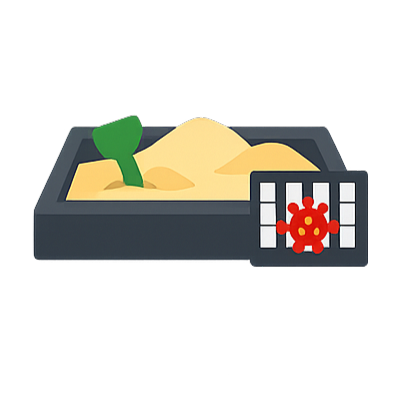
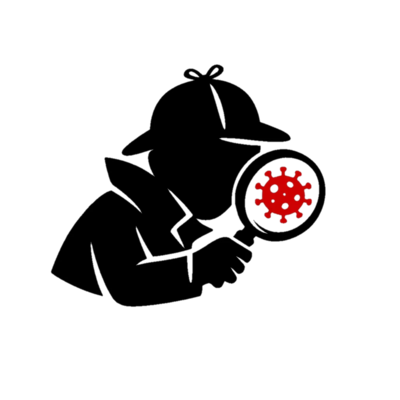
сделал новый модуль watcher.py который ведет журнал аудита в нужных для пользователя директориях с помощью библиотеки watchdog

diff --git a/source/watcher.py b/source/watcher.py
@@ -1,0 +1,316 @@
+import os
+import time
+import queue
+from tkinter import *
+from tkinter import font as tkfont
+from tkinter import filedialog, messagebox
+import psutil
+from watchdog.observers import Observer
+from watchdog.events import FileSystemEventHandler
+from datetime import datetime
+BG_COLOR = "#1a1a1a"
+BG_SECONDARY = "#2a2a2a"
+BUTTON_COLOR = "#2a2a2a"
+BUTTON_ACTIVE_COLOR = "#3a3a3a"
+TEXT_COLOR = "#e0e0e0"
+TITLE_COLOR = "#3a6ea5"
+WARNING_COLOR = "#ff4444"
+SUCCESS_COLOR = "#44ff44"
+BUTTON_TEXT_COLOR = "#2a4a7a"
+FONT_FAMILY = "Segoe UI"
+DEFAULT_FOLDERS = [
+    os.path.expanduser("~\\Documents"),
+    os.path.expanduser("~\\Desktop"),
+    os.path.expanduser("~\\Downloads"),
+]
+EXCLUDED_PATTERNS = [
+    "*.tmp", "*.temp", "*.log", "*.cache", "*.crdownload",
+    "~*", "Thumbs.db", "desktop.ini"
+]
+EXCLUDED_DIRS = [
+    "cache", "temp", "tmp", "logs", ".git", "__pycache__"
+]
+class FileChangeHandler(FileSystemEventHandler):
+    def __init__(self, log_queue):
+        super().__init__()
+        self.log_queue = log_queue
+    def should_ignore(self, path):
+        path_lower = path.lower()
+        for pattern in EXCLUDED_PATTERNS:
+            if pattern.startswith('*'):
+                if path_lower.endswith(pattern[1:]):
+                    return True
+            elif pattern.startswith('~'):
+                if os.path.basename(path).startswith('~'):
+                    return True
+        for dir_name in EXCLUDED_DIRS:
+            if f"\\{dir_name}\\" in f"\\{path_lower}\\" or path_lower.startswith(dir_name):
+                return True
+        return False
+    def get_file_size(self, path):
+        try:
+            if os.path.exists(path):
+                size = os.path.getsize(path)
+                if size < 1024:
+                    return f"{size} B"
+                elif size < 1024 * 1024:
+                    return f"{size / 1024:.2f} KB"
+                else:
+                    return f"{size / (1024 * 1024):.2f} MB"
+        except:
+            pass
+        return "Неизвестно"
+    def get_process_name(self, path):
+        try:
+            time.sleep(0.05)
+            for proc in psutil.process_iter(['pid', 'name']):
+                try:
+                    for file in proc.open_files():
+                        if file.path == path:
+                            return proc.info['name']
+                except (psutil.NoSuchProcess, psutil.AccessDenied):
+                    continue
+        except:
+            pass
+        return "неизвестно"
+    def process(self, event):
+        if event.is_directory or self.should_ignore(event.src_path):
+            return
+        timestamp = datetime.now().strftime('%H:%M:%S')
+        filename = os.path.basename(event.src_path)
+        file_size = self.get_file_size(event.src_path)
+        process_name = ""
+        if event.event_type == 'created':
+            action = "СОЗДАН"
+            color = "#44ff44"
+            process_name = self.get_process_name(event.src_path)
+        elif event.event_type == 'modified':
+            action = "ИЗМЕНЕН"
+            color = "#ffaa00"
+            process_name = self.get_process_name(event.src_path)
+        elif event.event_type == 'deleted':
+            action = "УДАЛЕН"
+            color = "#ff4444"
+            process_name = "N/A"
+        elif event.event_type == 'moved':
+            action = "ПЕРЕМЕЩЕН"
+            color = "#aa66ff"
+            process_name = self.get_process_name(event.dest_path) if hasattr(event, 'dest_path') else "N/A"
+        else:
+            return
+        log_entry = f"[{timestamp}] {action}: {filename} ({file_size}) | Процесс: {process_name}"
+        self.log_queue.put((log_entry, color))
+    def on_created(self, event):
+        self.process(event)
+    def on_modified(self, event):
+        self.process(event)
+    def on_deleted(self, event):
+        self.process(event)
+    def on_moved(self, event):
+        self.process(event)
+class FileMonitorFrame(Frame):
+    def __init__(self, parent, on_back):
+        super().__init__(parent, bg=BG_COLOR)
+        self.on_back = on_back
+        self.observer = None
+        self.is_monitoring = False
+        self.event_queue = queue.Queue()
+        self.watched_folders = []
+        self.setup_fonts()
+        self.create_interface()
+        self.add_default_folders()
+    def setup_fonts(self):
+        try:
+            self.title_font = tkfont.Font(family=FONT_FAMILY, size=72, weight="bold")
+            self.button_font = tkfont.Font(family=FONT_FAMILY, size=16, weight="bold")
+            self.status_font = tkfont.Font(family=FONT_FAMILY, size=14, weight="bold")
+            self.list_font = tkfont.Font(family=FONT_FAMILY, size=11)
+        except:
+            self.title_font = tkfont.Font(size=72, weight="bold")
+            self.button_font = tkfont.Font(size=16, weight="bold")
+            self.status_font = tkfont.Font(size=14, weight="bold")
+            self.list_font = tkfont.Font(size=11)
+    def create_interface(self):
+        main_frame = Frame(self, bg=BG_COLOR)
+        main_frame.pack(fill=BOTH, expand=True, padx=80, pady=50)
+        title = Label(main_frame, text="SATELLITE", font=self.title_font, fg=TITLE_COLOR, bg=BG_COLOR)
+        title.pack(pady=(40, 20))
+        status_label = Label(main_frame, text="МОНИТОРИНГ ФАЙЛОВОЙ СИСТЕМЫ", font=self.status_font, fg=SUCCESS_COLOR,
+                             bg=BG_COLOR)
+        status_label.pack(pady=(0, 20))
+        control_frame = Frame(main_frame, bg=BG_COLOR)
+        control_frame.pack(fill=X, pady=(0, 10))
+        listbox_frame = Frame(control_frame, bg=BG_SECONDARY)
+        listbox_frame.pack(side=LEFT, fill=BOTH, expand=True, padx=(0, 10))
+        scrollbar_list = Scrollbar(listbox_frame)
+        scrollbar_list.pack(side=RIGHT, fill=Y)
+        self.folder_listbox = Listbox(listbox_frame, font=self.list_font, bg=BG_SECONDARY, fg=TEXT_COLOR,
+                                      selectbackground=TITLE_COLOR, selectforeground=TEXT_COLOR,
+                                      yscrollcommand=scrollbar_list.set, relief=FLAT, bd=0, height=5)
+        self.folder_listbox.pack(side=LEFT, fill=BOTH, expand=True)
+        scrollbar_list.config(command=self.folder_listbox.yview)
+        btn_panel = Frame(control_frame, bg=BG_COLOR)
+        btn_panel.pack(side=RIGHT, fill=Y)
+        add_btn = Button(btn_panel, text="ДОБАВИТЬ", font=self.button_font,
+                         bg=BUTTON_COLOR, fg=BUTTON_TEXT_COLOR,
+                         activebackground=BUTTON_ACTIVE_COLOR,
+                         activeforeground=BUTTON_TEXT_COLOR,
+                         relief=FLAT, bd=0, padx=15, pady=5,
+                         command=self.add_folder)
+        add_btn.pack(fill=X, pady=2)
+        remove_btn = Button(btn_panel, text="УДАЛИТЬ", font=self.button_font,
+                            bg=BUTTON_COLOR, fg=BUTTON_TEXT_COLOR,
+                            activebackground=BUTTON_ACTIVE_COLOR,
+                            activeforeground=BUTTON_TEXT_COLOR,
+                            relief=FLAT, bd=0, padx=15, pady=5,
+                            command=self.remove_selected_folder)
+        remove_btn.pack(fill=X, pady=2)
+        default_btn = Button(btn_panel, text="СТАНДАРТНЫЕ", font=self.button_font,
+                             bg=BUTTON_COLOR, fg=BUTTON_TEXT_COLOR,
+                             activebackground=BUTTON_ACTIVE_COLOR,
+                             activeforeground=BUTTON_TEXT_COLOR,
+                             relief=FLAT, bd=0, padx=15, pady=5,
+                             command=self.add_default_folders)
+        default_btn.pack(fill=X, pady=2)
+        apply_btn = Button(btn_panel, text="ПРИМЕНИТЬ", font=self.button_font,
+                           bg=BUTTON_COLOR, fg=BUTTON_TEXT_COLOR,
+                           activebackground=BUTTON_ACTIVE_COLOR,
+                           activeforeground=BUTTON_TEXT_COLOR,
+                           relief=FLAT, bd=0, padx=15, pady=5,
+                           command=self.apply_changes)
+        apply_btn.pack(fill=X, pady=2)
+        back_btn = Button(btn_panel, text="ВЕРНУТЬСЯ", font=self.button_font,
+                          bg=BUTTON_COLOR, fg=BUTTON_TEXT_COLOR,
+                          activebackground=BUTTON_ACTIVE_COLOR,
+                          activeforeground=BUTTON_TEXT_COLOR,
+                          relief=FLAT, bd=0, padx=15, pady=5,
+                          command=self.cleanup_and_back)
+        back_btn.pack(fill=X, pady=2)
+        log_container = Frame(main_frame, bg=BG_COLOR, height=300)
+        log_container.pack(fill=BOTH, pady=(0, 20))
+        log_container.pack_propagate(False)
+        self.log_frame = Frame(log_container, bg=BG_SECONDARY)
+        self.log_frame.pack(fill=BOTH, expand=True)
+        scrollbar_log = Scrollbar(self.log_frame)
+        scrollbar_log.pack(side=RIGHT, fill=Y)
+        self.log_text = Text(self.log_frame, font=("Consolas", 11), bg=BG_SECONDARY, fg=TEXT_COLOR,
+                             yscrollcommand=scrollbar_log.set, wrap=WORD, relief=FLAT, bd=0,
+                             state='disabled')
+        self.log_text.pack(side=LEFT, fill=BOTH, expand=True)
+        scrollbar_log.config(command=self.log_text.yview)
+        btn_frame = Frame(main_frame, bg=BG_COLOR)
+        btn_frame.pack(fill=X, pady=(10, 0))
+        btn_frame.grid_columnconfigure(0, weight=1)
+        btn_frame.grid_columnconfigure(1, weight=1)
+        self.toggle_btn = Button(btn_frame, text="ЗАПУСТИТЬ", font=self.button_font,
+                                 bg=BUTTON_COLOR, fg=BUTTON_TEXT_COLOR,
+                                 activebackground=BUTTON_ACTIVE_COLOR,
+                                 activeforeground=BUTTON_TEXT_COLOR,
+                                 relief=FLAT, bd=0, padx=30, pady=10,
+                                 command=self.toggle_monitoring)
+        self.toggle_btn.grid(row=0, column=0, padx=10, sticky="ew")
+        self.clear_btn = Button(btn_frame, text="ОЧИСТИТЬ ЛОГ", font=self.button_font,
+                                bg=BUTTON_COLOR, fg=BUTTON_TEXT_COLOR,
+                                activebackground=BUTTON_ACTIVE_COLOR,
+                                activeforeground=BUTTON_TEXT_COLOR,
+                                relief=FLAT, bd=0, padx=30, pady=10,
+                                command=self.clear_log)
+        self.clear_btn.grid(row=0, column=1, padx=10, sticky="ew")
+    def add_folder(self):
+        folder = filedialog.askdirectory(title="Выберите папку для мониторинга")
+        if folder:
+            normalized = os.path.normpath(folder)
+            if normalized not in self.watched_folders:
+                self.watched_folders.append(normalized)
+                self.folder_listbox.insert(END, normalized)
+    def remove_selected_folder(self):
+        selection = self.folder_listbox.curselection()
+        if selection:
+            index = selection[0]
+            folder = self.folder_listbox.get(index)
+            self.watched_folders.remove(folder)
+            self.folder_listbox.delete(index)
+    def add_default_folders(self):
+        added = False
+        for folder in DEFAULT_FOLDERS:
+            normalized = os.path.normpath(folder)
+            if os.path.exists(normalized) and normalized not in self.watched_folders:
+                self.watched_folders.append(normalized)
+                self.folder_listbox.insert(END, normalized)
+                added = True
+        if not added:
+            messagebox.showinfo("Информация", "Стандартные папки уже в списке или не существуют.")
+        return added
+    def apply_changes(self):
+        if self.is_monitoring:
+            self.stop_monitoring()
+        self.log_event("Применение изменений и запуск мониторинга...", TITLE_COLOR)
+        self.start_monitoring()
+    def start_monitoring(self):
+        if self.is_monitoring:
+            return
+        if not self.watched_folders:
+            self.log_event("Нет папок для мониторинга. Добавьте хотя бы одну.", WARNING_COLOR)
+            return
+        self.is_monitoring = True
+        self.toggle_btn.config(text="ОСТАНОВИТЬ")
+        self.event_handler = FileChangeHandler(self.event_queue)
+        self.observer = Observer()
+        for folder in self.watched_folders:
+            if os.path.exists(folder):
+                try:
+                    self.observer.schedule(self.event_handler, folder, recursive=True)
+                    self.log_event(f"Начат мониторинг: {folder}", TITLE_COLOR)
+                except Exception as e:
+                    self.log_event(f"Ошибка мониторинга {folder}: {str(e)}", WARNING_COLOR)
+            else:
+                self.log_event(f"Папка не существует: {folder}", WARNING_COLOR)
+        self.observer.start()
+        self.after(100, self.process_queue)
+    def stop_monitoring(self):
+        if self.observer:
+            self.observer.stop()
+            self.observer.join()
+            self.observer = None
+        self.is_monitoring = False
+        self.toggle_btn.config(text="ЗАПУСТИТЬ")
+        self.log_event("Мониторинг остановлен", TITLE_COLOR)
+    def toggle_monitoring(self):
+        if self.is_monitoring:
+            self.stop_monitoring()
+        else:
+            self.start_monitoring()
+    def process_queue(self):
+        try:
+            while True:
+                entry, color = self.event_queue.get_nowait()
+                self._insert_log(entry, color)
+        except queue.Empty:
+            pass
+        finally:
+            if self.is_monitoring:
+                self.after(100, self.process_queue)
+    def _insert_log(self, message, color):
+        self.log_text.config(state='normal')
+        self.log_text.insert(END, message + "\n")
+        last_line = int(self.log_text.index('end-1c').split('.')[0])
+        tag = f"tag_{last_line}"
+        self.log_text.tag_config(tag, foreground=color)
+        self.log_text.tag_add(tag, f"{last_line}.0", f"{last_line}.end")
+        self.log_text.see(END)
+        self.log_text.config(state='disabled')
+    def log_event(self, message, color):
+        self._insert_log(message, color)
+    def clear_log(self):
+        self.log_text.config(state='normal')
+        self.log_text.delete(1.0, END)
+        self.log_text.config(state='disabled')
+    def cleanup_and_back(self):
+        self.stop_monitoring()
+        self.destroy()
+        self.on_back()
+def open_file_monitor(parent, on_back):
+    for widget in parent.winfo_children():
+        widget.destroy()
+    frame = FileMonitorFrame(parent, on_back)
+    frame.pack(fill="both", expand=True)

diff --git a/source/main_win.py b/source/main_win.py
@@ -11,6 +11,7 @@ from PIL import Image, ImageTk
 import secure_delete
 import CombineAntivirus
 import flash_encryption
+import watcher
 BG_COLOR = "#1a1a1a"
 BG_SECONDARY = "#2a2a2a"
 BUTTON_COLOR = "#2a2a2a"
@@ -122,8 +123,8 @@ class SatelliteApp:
         buttons_frame.grid_rowconfigure(1, weight=1, uniform="row")
         btn1 = self.create_button(buttons_frame, "ПРОВЕРИТЬ ФАЙЛ", "filee",lambda: CombineAntivirus.open_antivirus(self.win, self.restore_main_interface))
         btn2 = self.create_button(buttons_frame, "БЕЗВОЗВРАТНОЕ УДАЛЕНИЕ", "rubish", lambda: secure_delete.secure_delete_file())
-        btn3 = self.create_button(buttons_frame, "ЗАЩИЩЕННАЯ ПЕСОЧНИЦА", "sand",
-                                  lambda: self.placeholder("Защищенная песочница"))
+        btn3 = self.create_button(buttons_frame, "Мониторинг чувствительных директорий".upper(), "sand",
+                                  lambda: watcher.open_file_monitor(self.win, self.restore_main_interface))
         btn4 = self.create_button(buttons_frame, "ШИФРОВАНИЕ/ДЕШИФРОВАНИЕ ФАЙЛОВ\nС ПОМОЩЬЮ ФЛЕШКИ", "flash",
                                   lambda: flash_encryption.show_encryption_interface(self.win, self.restore_main_interface))
         btn1.grid(row=0, column=0, padx=25, pady=25, sticky="nsew")